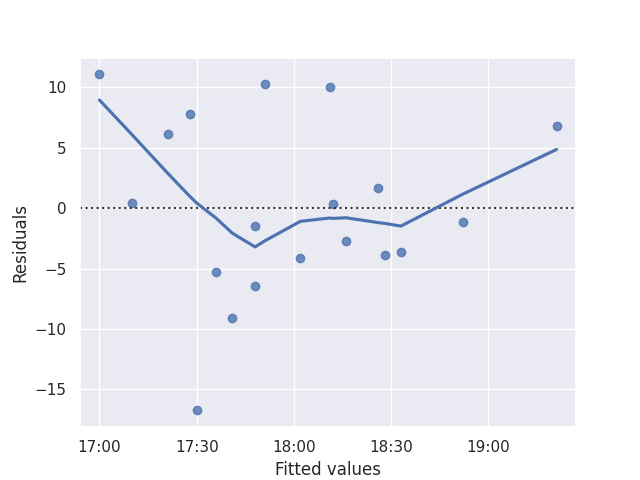
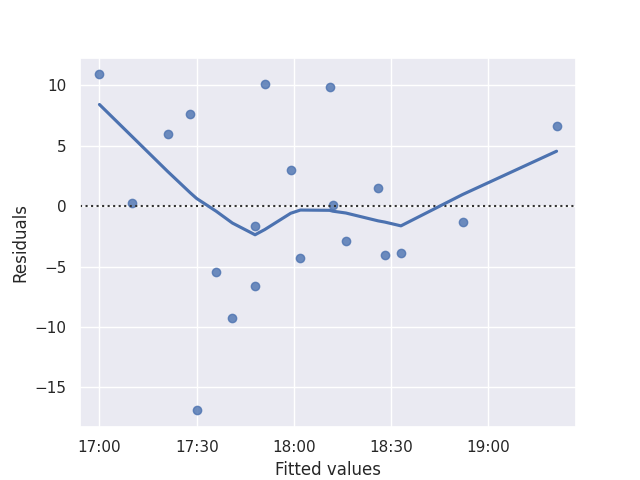
changed module of preprocessing function

diff --git a/model.py b/model.py
@@ -2,10 +2,13 @@ import numpy as np
 import pandas as pd 
 from statsmodels.formula.api import ols
 from sklearn.tree import DecisionTreeRegressor
-from sklearn.model_selection import train_test_split
+from sklearn.model_selection import train_test_split, cross_val_score, GridSearchCV
+#from sklearn.model_selection import KFold 
 from sklearn.metrics import mean_squared_error as MSE
 from sklearn.inspection import permutation_importance 
-from sklearn import ensemble
+from sklearn.ensemble import GradientBoostingRegressor
+from sklearn.metrics import r2_score, make_scorer
+
 import warnings
 
 warnings.filterwarnings(action='ignore', category=UserWarning)
@@ -24,16 +27,24 @@ def nonlinear_prediction_line(df, start, end):
     # print(coeffs)
     return x, coeffs[0] * x + coeffs[1] * x + coeffs[2]
 
+
+
 def decision_tree_regressor(df, start, end):
     seed = 3
+    X = df[start + '_departure_time_hr'].dropna()
+    y = df['minutes_to_' + end].dropna() 
     #X_train = df[start + '_departure_time_hr'].dropna()
     #y_train = df['minutes_to_' + end].dropna()
     #X_test = np.linspace(X_train.min(), X_train.max(), 100)
-    X_train, X_test, y_train, y_test = train_test_split(df[start + '_departure_time_hr'].dropna(), df['minutes_to_' + end].dropna(), test_size=0.3, random_state=seed)
+    #TODO: k-fold cross validation 
+    #kf = KFold(n_splits=4, random_state=seed)
+    X_train, X_test, y_train, y_test = train_test_split(X, y, test_size=0.3, random_state=seed)
     dt = DecisionTreeRegressor(max_depth=8, random_state=seed)
     #X_train.reshape(-1, 1)
     #y_train.reshape(-1, 1)
     dt.fit(X_train, y_train)
+    # dt_scores = cross_val_score(dt_fit, X_train, y_train, cv = 5)
+
     y_pred = dt.predict(X_test)
     mse_dt = MSE(y_test, y_pred)
     rmse_dt = mse_dt**(1/2)
@@ -51,10 +62,34 @@ def compare(df, start, end):
     print('correlation: ' + str(df[start + '_departure_time_hr'].corr(df['minutes_to_' + end])))
 
 def fit_gbr(X_train, X_test, y_train, y_test, params):
-    reg = ensemble.GradientBoostingRegressor(**params)
-    reg.fit(X_train, y_train)
+    reg = GradientBoostingRegressor(**params)
+    reg_fit = reg.fit(X_train, y_train)
     mse = MSE(y_test, reg.predict(X_test))
     print("The mean squared error (MSE) on test set: {:.4f}".format(mse))
+
+    # reg_scores = cross_val_score(reg_fit, X_train, y_train, cv = 5)
+    # print("mean cross validation score: {}".format(np.mean(reg_scores)))
+    # print("score without cv: {}".format(reg_fit.score(X_train, y_train)))   
+
+    # # on the test or hold-out set
+    # print(r2_score(y_test, reg_fit.predict(X_test)))
+    # print(reg_fit.score(X_test, y_test)) 
+
+    # scoring = make_scorer(r2_score)
+    # g_cv = GridSearchCV(GradientBoostingRegressor(random_state=0),
+    #             param_grid={'min_samples_split': range(2, 10)},
+    #             scoring=scoring, cv=5, refit=True)
+
+    # g_cv.fit(X_train, y_train)
+    # g_cv.best_params_
+
+    # result = g_cv.cv_results_
+    # # print(result)
+    # result = r2_score(y_test, g_cv.best_estimator_.predict(X_test))
+    # print(result)
+
+    # mse = MSE(y_test, reg.predict(X_test))
+    # print("The mean squared error (MSE) on test set: {:.4f}".format(mse))
     return reg, mse 
 
 def prediction_from_gbr(reg, df, start):

diff --git a/make_plots.py b/make_plots.py
@@ -4,8 +4,6 @@ import matplotlib.ticker as ticker
 import numpy as np 
 import pandas as pd 
 from statsmodels.formula.api import ols
-from sklearn.tree import DecisionTreeRegressor
-from sklearn.model_selection import train_test_split
 from sklearn.metrics import mean_squared_error as MSE
 from sklearn.inspection import permutation_importance 
 from sklearn import ensemble
@@ -14,6 +12,7 @@ import warnings
 warnings.simplefilter(action='ignore', category=FutureWarning)
 
 import model 
+import data_processing as dp 
 
 def plot_residuals(start, end, df):
     fig = plt.figure()
@@ -23,43 +22,6 @@ def plot_residuals(start, end, df):
     plt.ylabel("Residuals")
     plt.savefig('duration_vs_departure_residuals_from_' + start + '_to_' + end + '.png')
     plt.clf()
-
-def preprocess_data(start, end, df):
-    #print(df)
-    df = pd.get_dummies(data=df, columns=['day_of_week'], drop_first=True)
-    df_notna = df[df[start + '_departure_time_hr'].notna()]
-    X = df_notna[[start + '_departure_time_hr','day_of_week_Mon','day_of_week_Tue','day_of_week_Wed','day_of_week_Thu']]
-    #df = df.get_dummies(data=df, prefix=['Mon', 'Tue', 'Wed', 'Thu', 'Fri'], columns='day_of_week', drop_first=True)
-    #X = np.array(df[start + '_departure_time_hr'].dropna()).reshape(-1, 1)
-    #X = np.array(df_notna[start + '_departure_time_hr']).reshape(-1, 1)
-    #X = np.array([df_notna[start + '_departure_time_hr'], df_notna['day_of_week_Mon'], df_notna['day_of_week_Tue'], df_notna['day_of_week_Wed'], df_notna['day_of_week_Thu']])
-    #print(X.shape)
-    #X = np.array([df[start + '_departure_time_hr'], df['day_of_week_Mon'], df['day_of_week_Tue'], df['day_of_week_Wed'], df['day_of_week_Thu']])
-    #y = np.array(df['minutes_to_' + end].dropna())
-    y = np.array(df_notna['minutes_to_' + end])
-    #(len1, len2) = X.shape
-    #X = np.reshape(X, (len2, len1))
-    #print(y)
-    #X = df_notna.drop(['minutes_to_' + end], axis=1)
-    #print(X)
-    X_train, X_test, y_train, y_test = train_test_split(X, y, test_size=0.1, random_state=13)
-    params = {
-        "n_estimators": 500,
-        "max_depth": 6,
-        "min_samples_split": 4,
-        "learning_rate": 0.01,
-        "loss": "squared_error"#,
-    }
-    return X_train, X_test, y_train, y_test, params 
-
-    # hyperparameters -> minimum deviance
-    #  500, 4,  5, 0.01 -> 200 @ 500
-    # 1000, 4,  5, 0.01 -> 200 @ 1000
-    #  500, 8,  5, 0.01 -> 250 @ 500
-    #  500, 4, 10, 0.01 -> 280 @ 500
-    # 1000, 4, 10, 0.01 -> 200 @ 1000
-    #  500, 3,  4, 0.01 -> 200 @ 500 <- selected
-    #  500, 2,  3, 0.01 -> 270 @ 500
 
 def plot_gbr_training_deviance(start, end, params, reg, X_test, y_test):
     test_score = np.zeros((params["n_estimators"],), dtype=np.float64)
@@ -151,7 +113,7 @@ def duration_vs_departure(df, start='home', end='work', order=1, gbr=False):
 
     # Practice with gradient boosting regression
     if(gbr):
-        X_train, X_test, y_train, y_test, params = preprocess_data(start, end, df)
+        X_train, X_test, y_train, y_test, params = dp.preprocess_data(start, end, df)
         reg, mse = model.fit_gbr(X_train, X_test, y_train, y_test, params)
         x, y = model.prediction_from_gbr(reg, df, start)
         ax.plot(x, y, c='c')

diff --git a/data_processing.py b/data_processing.py
@@ -1,5 +1,7 @@
+import numpy as np 
 import pandas as pd 
 import datetime
+from sklearn.model_selection import train_test_split
 
 def process_data(filename='commuting_data.csv'):
     '''Import the data from a csv file and perform initial processing tasks.
@@ -44,3 +46,40 @@ def process_data(filename='commuting_data.csv'):
     return df
 
 #df = process_data()
+
+def preprocess_data(start, end, df):
+    #print(df)
+    df = pd.get_dummies(data=df, columns=['day_of_week'], drop_first=True)
+    df_notna = df[df[start + '_departure_time_hr'].notna()]
+    X = df_notna[[start + '_departure_time_hr','day_of_week_Mon','day_of_week_Tue','day_of_week_Wed','day_of_week_Thu']]
+    #df = df.get_dummies(data=df, prefix=['Mon', 'Tue', 'Wed', 'Thu', 'Fri'], columns='day_of_week', drop_first=True)
+    #X = np.array(df[start + '_departure_time_hr'].dropna()).reshape(-1, 1)
+    #X = np.array(df_notna[start + '_departure_time_hr']).reshape(-1, 1)
+    #X = np.array([df_notna[start + '_departure_time_hr'], df_notna['day_of_week_Mon'], df_notna['day_of_week_Tue'], df_notna['day_of_week_Wed'], df_notna['day_of_week_Thu']])
+    #print(X.shape)
+    #X = np.array([df[start + '_departure_time_hr'], df['day_of_week_Mon'], df['day_of_week_Tue'], df['day_of_week_Wed'], df['day_of_week_Thu']])
+    #y = np.array(df['minutes_to_' + end].dropna())
+    y = np.array(df_notna['minutes_to_' + end])
+    #(len1, len2) = X.shape
+    #X = np.reshape(X, (len2, len1))
+    #print(y)
+    #X = df_notna.drop(['minutes_to_' + end], axis=1)
+    #print(X)
+    X_train, X_test, y_train, y_test = train_test_split(X, y, test_size=0.1, random_state=13)
+    params = {
+        "n_estimators": 500,
+        "max_depth": 6,
+        "min_samples_split": 4,
+        "learning_rate": 0.01,
+        "loss": "squared_error"#,
+    }
+    return X_train, X_test, y_train, y_test, params 
+
+    # hyperparameters -> minimum deviance
+    #  500, 4,  5, 0.01 -> 200 @ 500
+    # 1000, 4,  5, 0.01 -> 200 @ 1000
+    #  500, 8,  5, 0.01 -> 250 @ 500
+    #  500, 4, 10, 0.01 -> 280 @ 500
+    # 1000, 4, 10, 0.01 -> 200 @ 1000
+    #  500, 3,  4, 0.01 -> 200 @ 500 <- selected
+    #  500, 2,  3, 0.01 -> 270 @ 500
